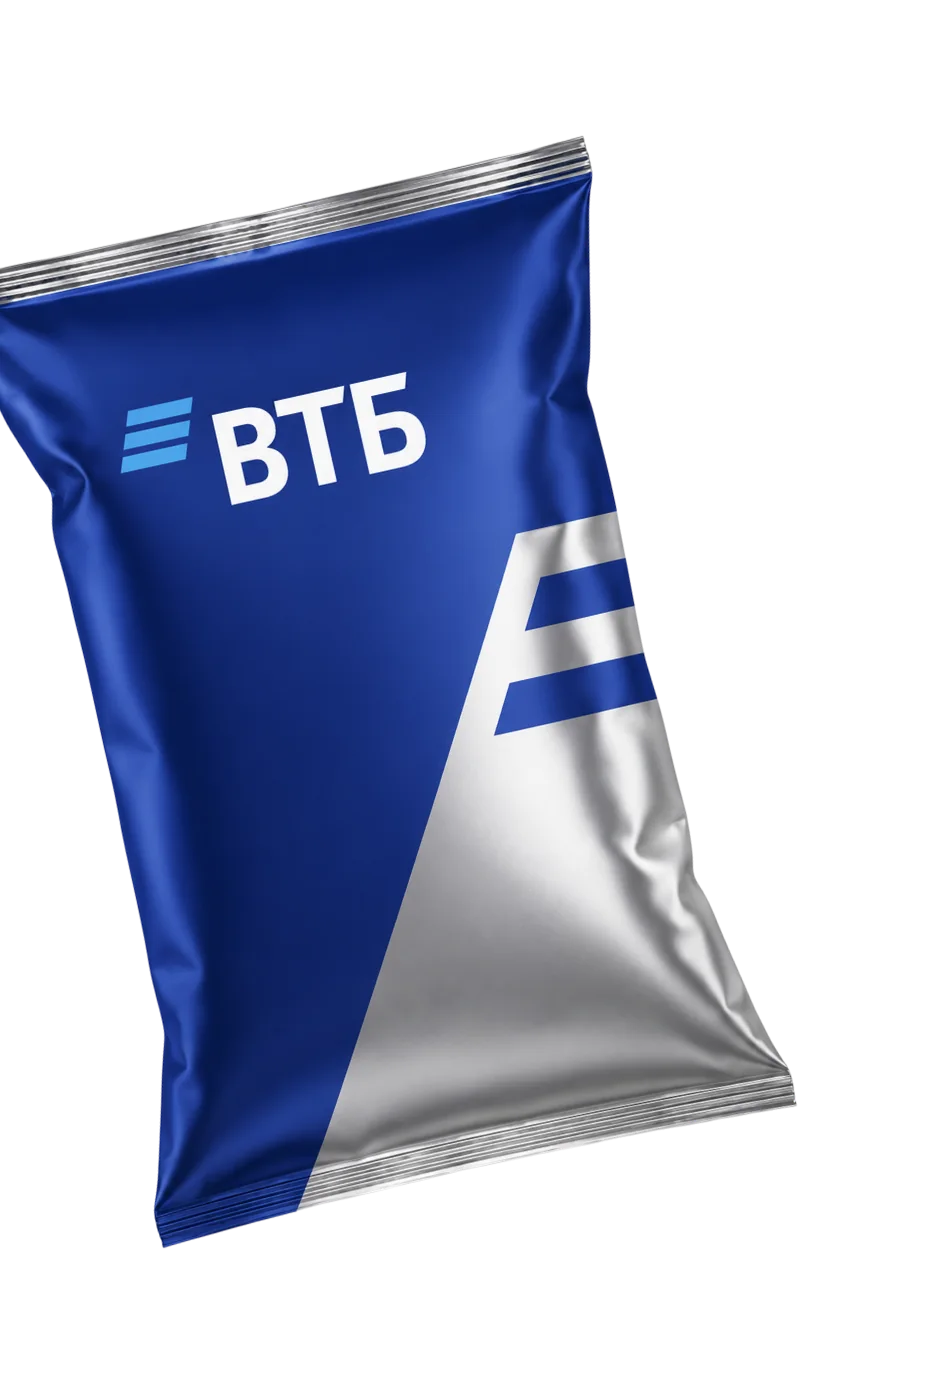
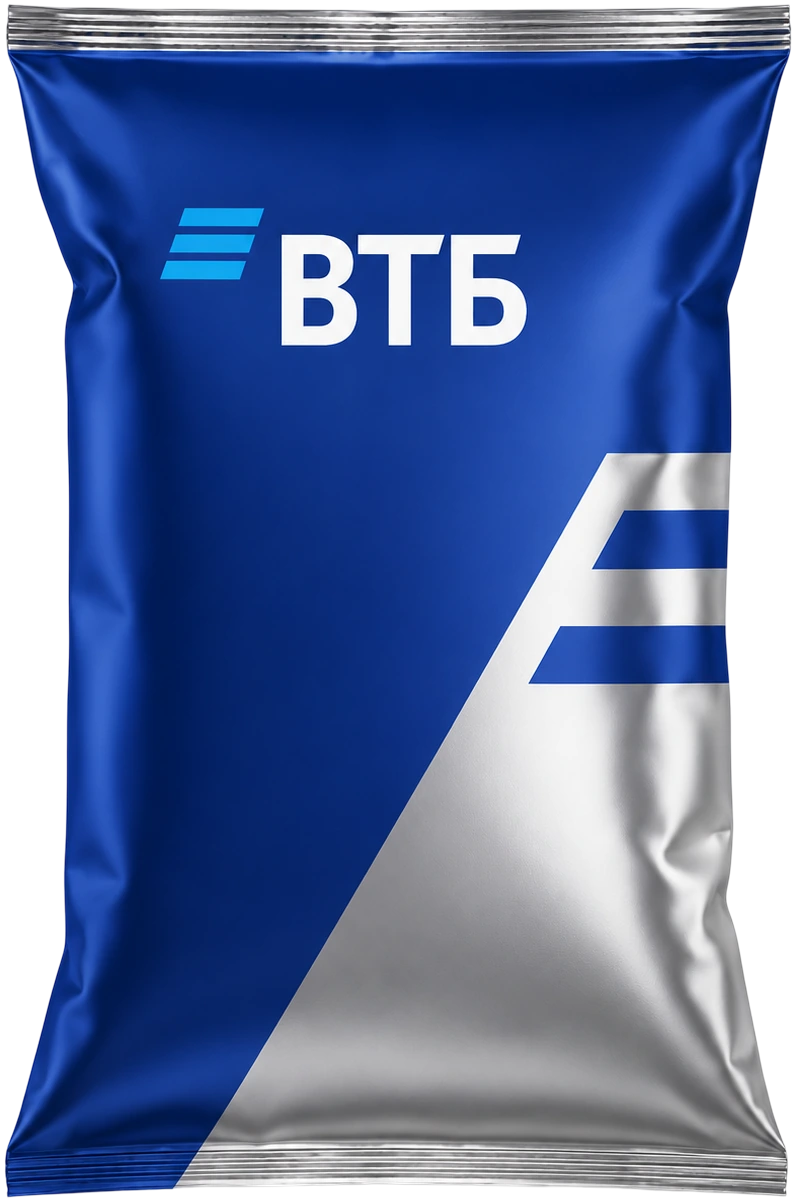
Восстановить пачку и добавить замедленный прыжок свина в сцену выбора карты

diff --git a/css/chapters.css b/css/chapters.css
@@ -226,7 +226,13 @@
 .stg-box{ position:relative; width:calc(350 * var(--u)); aspect-ratio:350 / 735; margin:0 auto; }
 .stg-ph{ position:relative; z-index:2; }
 .stg-o{ position:absolute; left:var(--l); top:var(--t); z-index:var(--z, 1); width:var(--w); height:auto; max-width:none; translate:0 var(--py, 0px); animation:stg-float 7s ease-in-out infinite; animation-delay:calc(var(--d) * -1.7s); pointer-events:none; }
+.stg-o--pack{ left:max(var(--l), calc(50% - 50vw + 20%)); rotate:-12.58deg; }
 @keyframes stg-float{ 50%{ transform:translateY(-12px) rotate(1.5deg); } }
+.stg-o--leap{ left:min(var(--l), calc(50% + 50vw - var(--w) - 20px)); scale:-1 1; animation:stg-leap 5.6s cubic-bezier(.37,0,.25,1) infinite; }
+@keyframes stg-leap{
+  0%,100%{ transform:translate(0,0) rotate(-2deg); }
+  48%{ transform:translate(3%,-11%) rotate(2deg) scale(.99,1.015); }
+}
 
 /* ---------- стена карт: два ряда навстречу ---------- */
 .mq{ display:flex; flex-direction:column; gap:15px; width:100vw; margin-left:calc(50% - 50vw); overflow:hidden; }
@@ -395,6 +401,8 @@ a.fin-b:active{ transform:scale(.97); }
 
   /* сцена: телефон крупнее, предметы — ближе к нему и за ним, чтобы не уходили за край и не закрывали экран */
   .stg{ --sw:min(56vw, 260px); padding:calc(var(--sw) * .3) 0 calc(var(--sw) * .26); overflow:hidden; width:100vw; margin-left:calc(50% - 50vw); }
+  .stg:has(.stg-o--leap){ padding-block:calc(var(--sw) * .51 + 20px) calc(var(--sw) * .5 + 10px); }
+  .stg-o--pack,.stg-o--leap{ translate:0 clamp(-8px, var(--py, 0px), 8px); }
   .stg-box{ width:var(--sw); }
   .stg-box .ph{ --pw:var(--sw); }
   .stg-o{ left:var(--ml); top:var(--mt); width:var(--mw); z-index:var(--mz, 1); }

diff --git a/js/chapters.js b/js/chapters.js
@@ -144,7 +144,8 @@ export const CHAPTERS = {
     };
     const objs = (b.objects || []).map((o) => {
       const m = mob(o);
-      return `<img class="stg-o" src="${esc(srcOf(o.src))}" alt="" aria-hidden="true" loading="lazy" decoding="async" style="--l:${pct(o.x, PW)};--t:${pct(o.y, PH)};--w:${pct(o.w, PW)};--z:${o.front ? 3 : 1};--ml:${pct(m.x, PW)};--mt:${pct(m.y, PH)};--mw:${pct(m.w, PW)};--mz:${m.front ? 3 : 1};--d:${+o.depth || 1}">`;
+      const modifier = { pack: ' stg-o--pack', leapingPig: ' stg-o--leap' }[o.kind] || '';
+      return `<img class="stg-o${modifier}" src="${esc(srcOf(o.src))}" alt="" aria-hidden="true" loading="lazy" decoding="async" style="--l:${pct(o.x, PW)};--t:${pct(o.y, PH)};--w:${pct(o.w, PW)};--z:${o.front ? 3 : 1};--ml:${pct(m.x, PW)};--mt:${pct(m.y, PH)};--mw:${pct(m.w, PW)};--mz:${m.front ? 3 : 1};--d:${+o.depth || 1}">`;
     }).join('');
     return `<section class="blk stg" data-stage><div class="stg-box">${objs}<div class="stg-ph">${phoneHTML(b.phone, { size: 'L', label: b.alt, reduced: ctx.reduced, tilt: true })}</div></div></section>`;
   },
